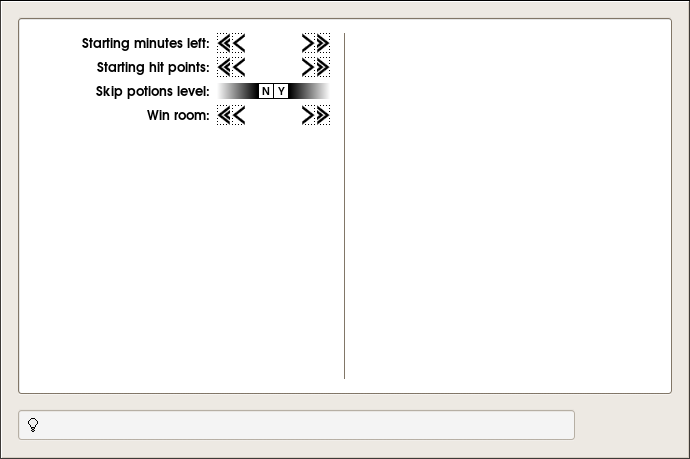
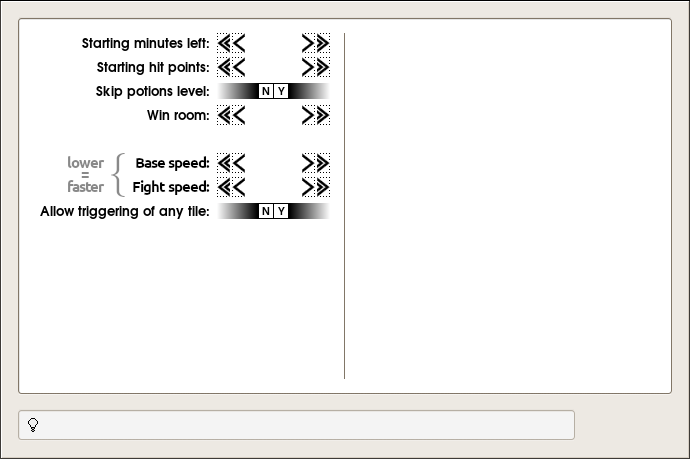
Version 1.0.

Changed region(s): [[0.0609, 0.3355, 0.487, 0.488]]

diff --git a/popyorn.c b/popyorn.c
@@ -1,5 +1,6 @@
-/* popyorn v0.9b (September 2018)
- * Copyright (C) 2018 Norbert de Jonge <mail@norbertdejonge.nl>
+/* SPDX-License-Identifier: GPL-3.0-or-later */
+/* popyorn v1.0 (December 2022)
+ * Copyright (C) 2018-2022 Norbert de Jonge <nlmdejonge@gmail.com>
  *
  * This program is free software: you can redistribute it and/or modify it
  * under the terms of the GNU General Public License as published by the Free
@@ -68,8 +69,8 @@
 #define EXIT_NORMAL 0
 #define EXIT_ERROR 1
 #define EDITOR_NAME "popyorn"
-#define EDITOR_VERSION "v0.9b (September 2018)"
-#define COPYRIGHT "Copyright (C) 2018 Norbert de Jonge"
+#define EDITOR_VERSION "v1.0 (December 2022)"
+#define COPYRIGHT "Copyright (C) 2022 Norbert de Jonge"
 #define BIN_DIR "bin"
 #define BACKUP BIN_DIR SLASH "backup.bak"
 #define MAX_PATHFILE 200
@@ -91,6 +92,7 @@
 #define ADJ_BASE_Y 62
 #define MAX_STATUS 100 /*** Cannot be more than MAX_TEXT. ***/
 #define MAX_DATA 720
+#define MAX_WARNING 200
 
 /*** Map window ***/
 #define MAP_BIG_AREA_W 1225
@@ -106,6 +108,13 @@
 #define OFFSET_SKIPPOT 0x4C5A
 /*** BA 22 60 0E 0C 2D [00 05] B9 73 66 06 3B 7C ***/
 #define OFFSET_WINROOM 0x8B4C
+/*** 70 [05] 2B 40 96 4C 70 00 60 1C ***/
+#define OFFSET_SPEEDBASE 0x9F07
+/*** 0C 2D 00 02 B9 76 66 08 70 [06] 2B 40 96 4C 60 06 ***/
+#define OFFSET_SPEEDFIGHT 0x9EFF
+/*** 4E BA FF 70 3E 00 5C 8F 60 16 0C 46 00 10 66 [10] ***/
+#define OFFSET_TRIGGERING 0x10923
+/***/
 /*** 4E BA 02 C2 3B 7C [00 01] BA 64 42 2D A1 24 ***/
 #define OFFSET_STARTLVL 0x3EDE
 
@@ -209,6 +218,9 @@ int iEXEHitPoints;
 int iEXESkipPotions;
 int iEXEWinRoom;
 int iEXEStartLevel;
+int iEXESpeedBase;
+int iEXESpeedFight;
+int iEXETriggering;
 
 /*** This is a level. ***/
 unsigned char sLevelForeground[(ROOMS * TILES) + 2];
@@ -647,6 +659,7 @@ void GetPathFile (void)
 	DIR *dDir;
 	struct dirent *stDirent;
 	char sExtension[100 + 2];
+	char sWarning[MAX_WARNING + 2];
 
 	iFound = 0;
 
@@ -680,6 +693,26 @@ void GetPathFile (void)
 				}
 			}
 		}
+	}
+
+	closedir (dDir);
+
+	if (iFound == 0)
+	{
+		snprintf (sWarning, MAX_WARNING, "Cannot find a .bin disk image in"
+			" directory \"%s\"!", BIN_DIR);
+		printf ("[ WARN ] %s\n", sWarning);
+		SDL_ShowSimpleMessageBox (SDL_MESSAGEBOX_ERROR,
+			"Warning", sWarning, NULL);
+		exit (EXIT_ERROR);
+	}
+
+	/*** Is the file accessible? ***/
+	if (access (sPathFile, R_OK|W_OK) == -1)
+	{
+		printf ("[ WARN ] Cannot access \"%s\": %s!\n",
+			sPathFile, strerror (errno));
+		exit (EXIT_ERROR);
 	}
 }
 /*****************************************************************************/
@@ -1633,6 +1666,7 @@ void InitScreen (void)
 
 	if (TTF_Init() == -1)
 	{
+		printf ("[FAILED] Could not initialize TTF!\n");
 		exit (EXIT_ERROR);
 	}
 
@@ -2181,7 +2215,7 @@ void InitScreen (void)
 									Quit(); break;
 								case 2:
 									iBrokenRoomLinks = BrokenRoomLinks (0);
-									/*** no break ***/
+									iScreen = 1; break;
 								case 3:
 									iScreen = 1; break;
 							}
@@ -2352,7 +2386,7 @@ void InitScreen (void)
 					}
 					ShowScreen (iScreen);
 					break;
-				case SDL_KEYDOWN: /*** http://wiki.libsdl.org/SDL_Keycode ***/
+				case SDL_KEYDOWN: /*** https://wiki.libsdl.org/SDL2/SDL_Keycode ***/
 					switch (event.key.keysym.sym)
 					{
 						case SDLK_F1: if (iScreen == 1) { Help(); } break;
@@ -2606,7 +2640,7 @@ void InitScreen (void)
 									Quit(); break;
 								case 2:
 									iBrokenRoomLinks = BrokenRoomLinks (0);
-									/*** no break ***/
+									iScreen = 1; break;
 								case 3:
 									iScreen = 1; break;
 							}
@@ -2928,8 +2962,9 @@ void InitScreen (void)
 								case 1: Quit(); break;
 								case 2:
 									iBrokenRoomLinks = BrokenRoomLinks (0);
-									/*** no break ***/
-								case 3: iScreen = 1; break;
+									iScreen = 1; break;
+								case 3:
+									iScreen = 1; break;
 							}
 						}
 						if (InArea (0, 0, 0 + 25, 0 + 25) == 1) /*** prev level ***/
@@ -3439,7 +3474,7 @@ void ShowScreen (int iScreenS)
 {
 	int iLoc;
 	char sLevel[MAX_TEXT + 2];
-	char arText[1 + 2][MAX_TEXT + 2];
+	char arText[9 + 2][MAX_TEXT + 2];
 	int iImgDir, iImgX, iImgY;
 	int iUnusedRooms;
 	int iXShow, iYShow;
@@ -4479,7 +4514,7 @@ void InitPopUpSave (void)
 void ShowPopUpSave (void)
 /*****************************************************************************/
 {
-	char arText[2 + 2][MAX_TEXT + 2];
+	char arText[9 + 2][MAX_TEXT + 2];
 
 	/*** faded background ***/
 	ShowImage (imgfaded, 0, 0, "imgfaded", ascreen, iScale, 1);
@@ -4644,7 +4679,7 @@ void ShowTile (int iThing, int iModifier, int iLocation)
 	int iXY[2 + 2];
 	int iShown;
 	int iInfoC;
-	char arText[1 + 2][MAX_TEXT + 2];
+	char arText[9 + 2][MAX_TEXT + 2];
 
 	iThingShow = iThing;
 	if ((iThingShow > 32) && (iThingShow != 0x2B)) { iThingShow-=32; }
@@ -6114,7 +6149,11 @@ void CenterNumber (SDL_Renderer *screen, int iNumber, int iX, int iY,
 	} else {
 		snprintf (sText, MAX_TEXT, "%02X", iNumber);
 	}
-	message = TTF_RenderText_Blended_Wrapped (font20, sText, fore, 0);
+	/* The 100000 is a workaround for 0 being broken. SDL devs have fixed that
+	 * see e.g. https://hg.libsdl.org/SDL_ttf/rev/72b8861dbc01 but
+	 * Ubuntu et al. still ship older sdl2-ttf versions.
+	 */
+	message = TTF_RenderText_Blended_Wrapped (font20, sText, fore, 100000);
 	messaget = SDL_CreateTextureFromSurface (screen, message);
 	if (iHex == 0)
 	{
@@ -6622,7 +6661,7 @@ void ShowRoomsMap (int iRoom, int iX, int iY)
 	int iThing, iMod;
 	float fOffsetX, fOffsetY;
 	float fRoomStartX, fRoomStartY;
-	char arText[1 + 2][MAX_TEXT + 2];
+	char arText[9 + 2][MAX_TEXT + 2];
 
 	/*** Used for looping. ***/
 	int iLoopTile;
@@ -7362,7 +7401,7 @@ void Help (void)
 				case SDL_MOUSEMOTION:
 					iXPos = event.motion.x;
 					iYPos = event.motion.y;
-					if (InArea (79, 344, 79 + 531, 344 + 23) == 1) /*** URL ***/
+					if (InArea (79, 346, 79 + 528, 346 + 19) == 1) /*** URL ***/
 					{
 						SDL_SetCursor (curHand);
 					} else {
@@ -7383,8 +7422,8 @@ void Help (void)
 					{
 						if (InArea (588, 410, 588 + 85, 410 + 32) == 1) /*** OK ***/
 							{ iHelp = 0; }
-						if (InArea (79, 344, 79 + 531, 344 + 23) == 1) /*** URL ***/
-							{ OpenURL ("https://www.norbertdejonge.nl/popyorn/"); }
+						if (InArea (79, 346, 79 + 528, 346 + 19) == 1) /*** URL ***/
+							{ OpenURL ("https://github.com/EndeavourAccuracy/popyorn"); }
 					}
 					ShowHelp();
 					break;
@@ -7917,6 +7956,26 @@ void EXE (void)
 						PlusMinus (&iEXEWinRoom, 232, 105, 1, 24, -1, 0);
 						PlusMinus (&iEXEWinRoom, 302, 105, 1, 24, +1, 0);
 						PlusMinus (&iEXEWinRoom, 317, 105, 1, 24, +10, 0);
+
+						/*** Base speed. ***/
+						PlusMinus (&iEXESpeedBase, 217, 153, 0, 255, -10, 0);
+						PlusMinus (&iEXESpeedBase, 232, 153, 0, 255, -1, 0);
+						PlusMinus (&iEXESpeedBase, 302, 153, 0, 255, +1, 0);
+						PlusMinus (&iEXESpeedBase, 317, 153, 0, 255, +10, 0);
+
+						/*** Fight speed. ***/
+						PlusMinus (&iEXESpeedFight, 217, 177, 0, 255, -10, 0);
+						PlusMinus (&iEXESpeedFight, 232, 177, 0, 255, -1, 0);
+						PlusMinus (&iEXESpeedFight, 302, 177, 0, 255, +1, 0);
+						PlusMinus (&iEXESpeedFight, 317, 177, 0, 255, +10, 0);
+
+						/*** Allow triggering of any tile. ***/
+						if ((InArea (259, 204, 259 + 14, 204 + 14) == 1) && /*** N ***/
+							(iEXETriggering == 1))
+							{ iEXETriggering = 0; PlaySound ("wav/check_box.wav"); }
+						if ((InArea (274, 204, 274 + 14, 204 + 14) == 1) && /*** Y ***/
+							(iEXETriggering == 0))
+							{ iEXETriggering = 1; PlaySound ("wav/check_box.wav"); }
 					}
 					ShowEXE();
 					break;
@@ -7952,7 +8011,7 @@ void ShowEXE (void)
 /*****************************************************************************/
 {
 	SDL_Color clr;
-	char arText[1 + 2][MAX_TEXT + 2];
+	char arText[9 + 2][MAX_TEXT + 2];
 
 	/*** exe ***/
 	ShowImage (imgexe, 0, 0, "imgexe", ascreen, iScale, 1);
@@ -8000,6 +8059,23 @@ void ShowEXE (void)
 	if (iEXEWinRoom == 5) { clr = color_bl; } else { clr = color_blue; }
 	CenterNumber (ascreen, iEXEWinRoom, 245, 105, clr, 0);
 
+	/*** Base speed. ***/
+	if (iEXESpeedBase == 5) { clr = color_bl; } else { clr = color_blue; }
+	CenterNumber (ascreen, iEXESpeedBase, 245, 153, clr, 0);
+
+	/*** Fight speed. ***/
+	if (iEXESpeedFight == 6) { clr = color_bl; } else { clr = color_blue; }
+	CenterNumber (ascreen, iEXESpeedFight, 245, 177, clr, 0);
+
+	/*** Allow triggering of any tile. ***/
+	if (iEXETriggering == 0)
+	{
+		ShowImage (imgsell, 259, 204, "imgsell", ascreen, iScale, 1);
+	} else {
+		ShowImage (imgsell, 274, 204, "imgsell", ascreen, iScale, 1);
+		ShowImage (imgsrs, 274, 204, "imgsrs", ascreen, iScale, 1);
+	}
+
 	/*** refresh screen ***/
 	SDL_RenderPresent (ascreen);
 }
@@ -8036,7 +8112,7 @@ void EXELoad (void)
 		case 0x60: iEXESkipPotions = 1; break;
 		default:
 			printf ("[ WARN ] Unknown potions level status: %lu!\n",
-				BytesAsLU (sData, 2));
+				BytesAsLU (sData, 1));
 			iEXESkipPotions = 0; /*** Fallback. ***/
 			break;
 	}
@@ -8045,6 +8121,30 @@ void EXELoad (void)
 	lseek (iFdEXE, OFFSET_WINROOM, SEEK_SET);
 	ReadFromFile (iFdEXE, "", 2, sData);
 	iEXEWinRoom = BytesAsLU (sData, 2);
+
+	/*** Base speed. ***/
+	lseek (iFdEXE, OFFSET_SPEEDBASE, SEEK_SET);
+	ReadFromFile (iFdEXE, "", 1, sData);
+	iEXESpeedBase = BytesAsLU (sData, 1);
+
+	/*** Fight speed. ***/
+	lseek (iFdEXE, OFFSET_SPEEDFIGHT, SEEK_SET);
+	ReadFromFile (iFdEXE, "", 1, sData);
+	iEXESpeedFight = BytesAsLU (sData, 1);
+
+	/*** Allow triggering of any tile. ***/
+	lseek (iFdEXE, OFFSET_TRIGGERING, SEEK_SET);
+	ReadFromFile (iFdEXE, "", 1, sData);
+	switch (BytesAsLU (sData, 1))
+	{
+		case 0x10: iEXETriggering = 0; break;
+		case 0x0E: iEXETriggering = 1; break;
+		default:
+			printf ("[ WARN ] Unknown triggering: %lu!\n",
+				BytesAsLU (sData, 1));
+			iEXETriggering = 0; /*** Fallback. ***/
+			break;
+	}
 
 	close (iFdEXE);
 }
@@ -8081,6 +8181,22 @@ void EXESave (void)
 	lseek (iFdEXE, OFFSET_WINROOM, SEEK_SET);
 	WriteWord (iFdEXE, iEXEWinRoom);
 
+	/*** Base speed. ***/
+	lseek (iFdEXE, OFFSET_SPEEDBASE, SEEK_SET);
+	WriteByte (iFdEXE, iEXESpeedBase);
+
+	/*** Fight speed. ***/
+	lseek (iFdEXE, OFFSET_SPEEDFIGHT, SEEK_SET);
+	WriteByte (iFdEXE, iEXESpeedFight);
+
+	/*** Allow triggering of any tile. ***/
+	lseek (iFdEXE, OFFSET_TRIGGERING, SEEK_SET);
+	switch (iEXETriggering)
+	{
+		case 0: WriteByte (iFdEXE, 0x10); break;
+		case 1: WriteByte (iFdEXE, 0x0E); break;
+	}
+
 	close (iFdEXE);
 
 	PlaySound ("wav/save.wav");
@@ -8094,6 +8210,11 @@ void UpdateStatusBar (void)
 	if (InArea (217, 83, 217 + 113, 83 + 16) == 1) /*** Skip potions level. ***/
 	{
 		snprintf (sStatus, MAX_STATUS, "%s", "Crack the game?");
+	}
+	if (InArea (40, 203, 40 + 290, 203 + 16) == 1) /*** triggering ***/
+	{
+		snprintf (sStatus, MAX_STATUS, "%s",
+			"If this is enabled, you can point raise/drop buttons to loose floors.");
 	}
 	if (strcmp (sStatus, sStatusOld) != 0) { ShowEXE(); }
 }
